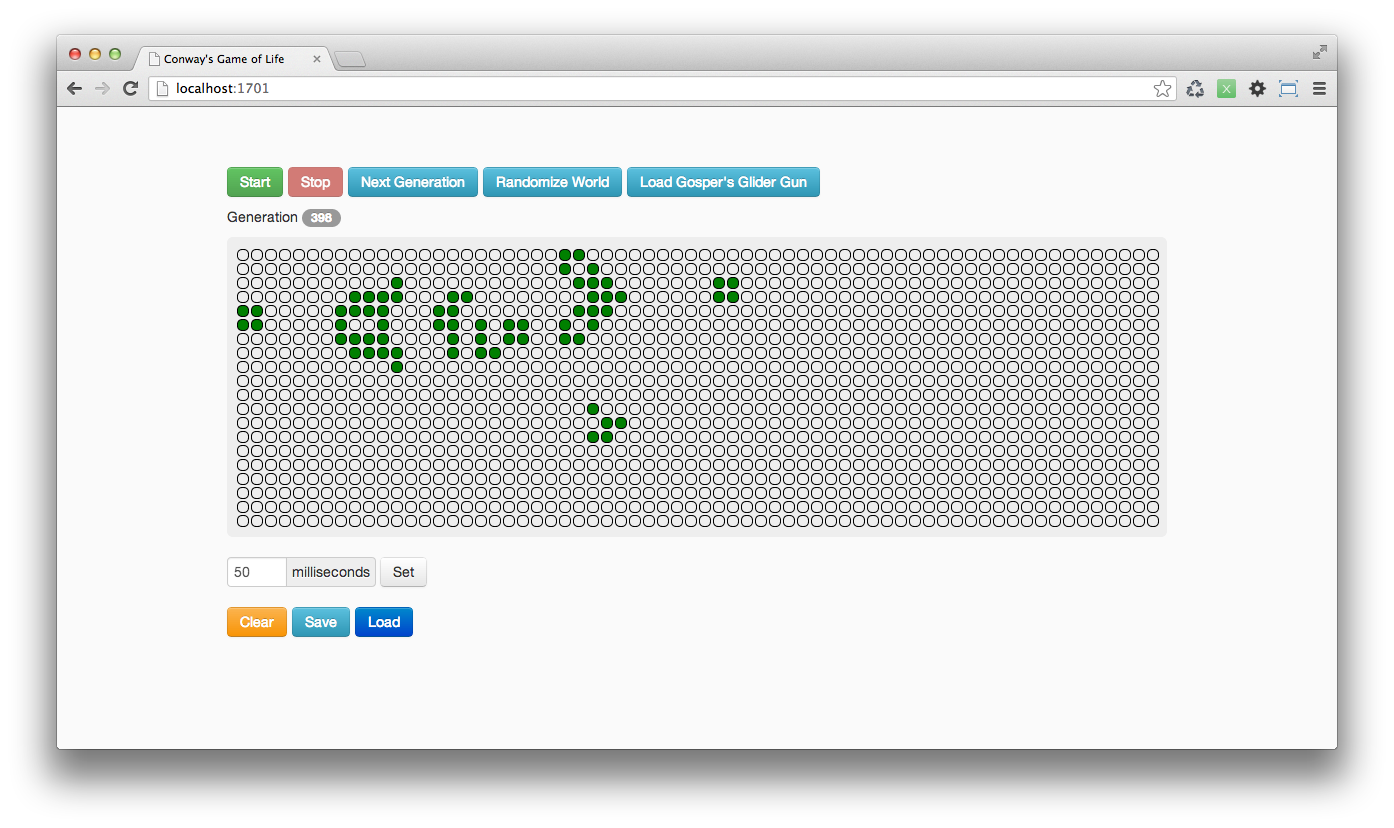
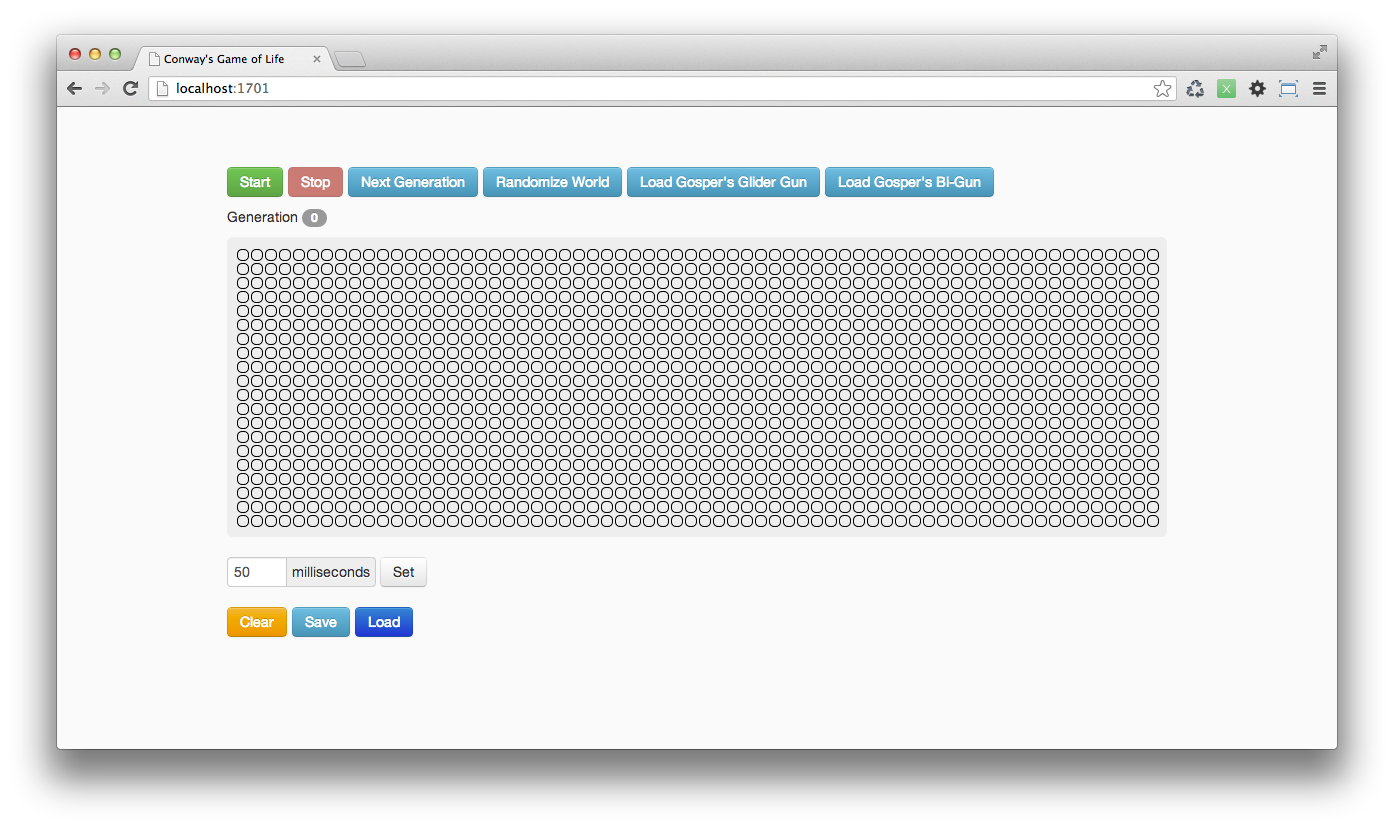
another demo pattern and some doc images

diff --git a/Conways-Game-of-Life/JavaScript/BackboneJS/src/app/views/controls.js b/Conways-Game-of-Life/JavaScript/BackboneJS/src/app/views/controls.js
@@ -19,18 +19,19 @@ if (typeof module !== "undefined" && module.exports) {
 			"click #save": "onSave",
 			"click #load": "onLoad",
 			"click #randomize": "onRandomize",
-			"click #gun": "onGun"
+			"click #gun": "onGun",
+			"click #bigun": "onBiGun"
 		},
 		render: function(){
 			return this;
 		},
 		onStart: function(){
-			this.$("#start, #next, #clear, #save, #load, #randomize, #gun").attr("disabled", "disabled");
+			this.$("#start, #next, #clear, #save, #load, #randomize, #gun, #bigun").attr("disabled", "disabled");
 			this.$("#stop").removeAttr("disabled");
 			this.trigger("start");
 		},
 		onStop: function() {
-			this.$("#start, #next, #clear, #save, #load, #randomize, #gun").removeAttr("disabled");
+			this.$("#start, #next, #clear, #save, #load, #randomize, #gun, #bigun").removeAttr("disabled");
 			this.$("#stop").attr("disabled", "disabled");
 			this.trigger("stop");
 		},
@@ -57,6 +58,9 @@ if (typeof module !== "undefined" && module.exports) {
 		},
 		onGun: function(){
 			this.trigger("gun");
+		},
+		onBiGun: function(){
+			this.trigger("bigun");
 		}
 	});
 })();

diff --git a/Conways-Game-of-Life/JavaScript/BackboneJS/src/app/views/application.js b/Conways-Game-of-Life/JavaScript/BackboneJS/src/app/views/application.js
@@ -81,6 +81,7 @@ if (typeof module !== "undefined" && module.exports) {
 
 			controls.on("konami", this._konami, this);
 			controls.on("gun", this.onGun, this);
+			controls.on("bigun", this.onBiGun, this);
 
 			this.children.push(controls);
 		},
@@ -98,6 +99,10 @@ if (typeof module !== "undefined" && module.exports) {
 		onGun: function(){
 			var worldView = this.children[1] || {};
 			this.storage.updateWorldFromSavedData(worldView.collection, Application.Data.Gun);
+		},
+		onBiGun: function(){
+			var worldView = this.children[1] || {};
+			this.storage.updateWorldFromSavedData(worldView.collection, Application.Data.BiGun);
 		},
 		_konami: function(){
 			var konami = new Application.Konami();

diff --git a/Conways-Game-of-Life/JavaScript/BackboneJS/README.md b/Conways-Game-of-Life/JavaScript/BackboneJS/README.md
@@ -29,4 +29,6 @@ on the root folder. That will run the mocha command line runner using the mocha.
 
 ![image](https://raw.github.com/rodrigoi/dojo/master/Conways-Game-of-Life/JavaScript/BackboneJS/docs/load.png)
 
+![image](https://raw.github.com/rodrigoi/dojo/master/Conways-Game-of-Life/JavaScript/BackboneJS/docs/mocha.png)
+
 Have fun, and enjoy your burrito ;)
